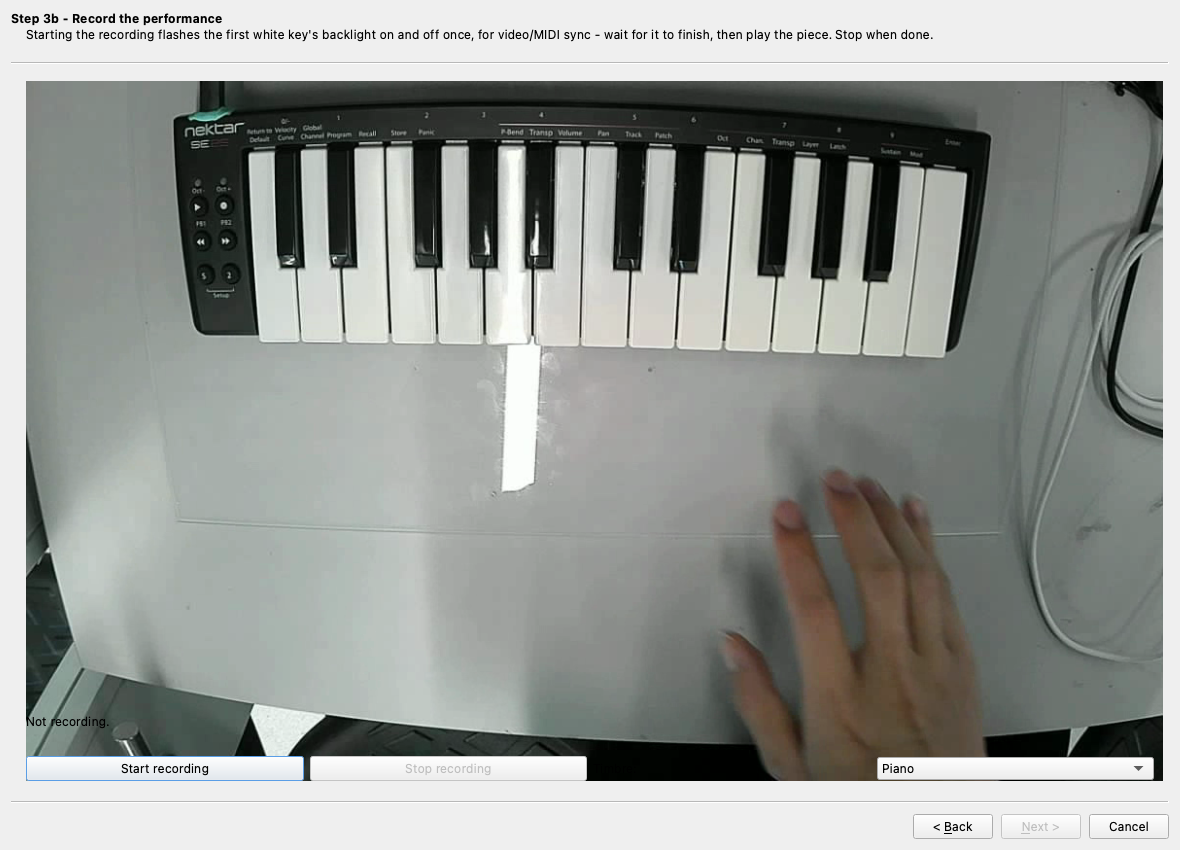
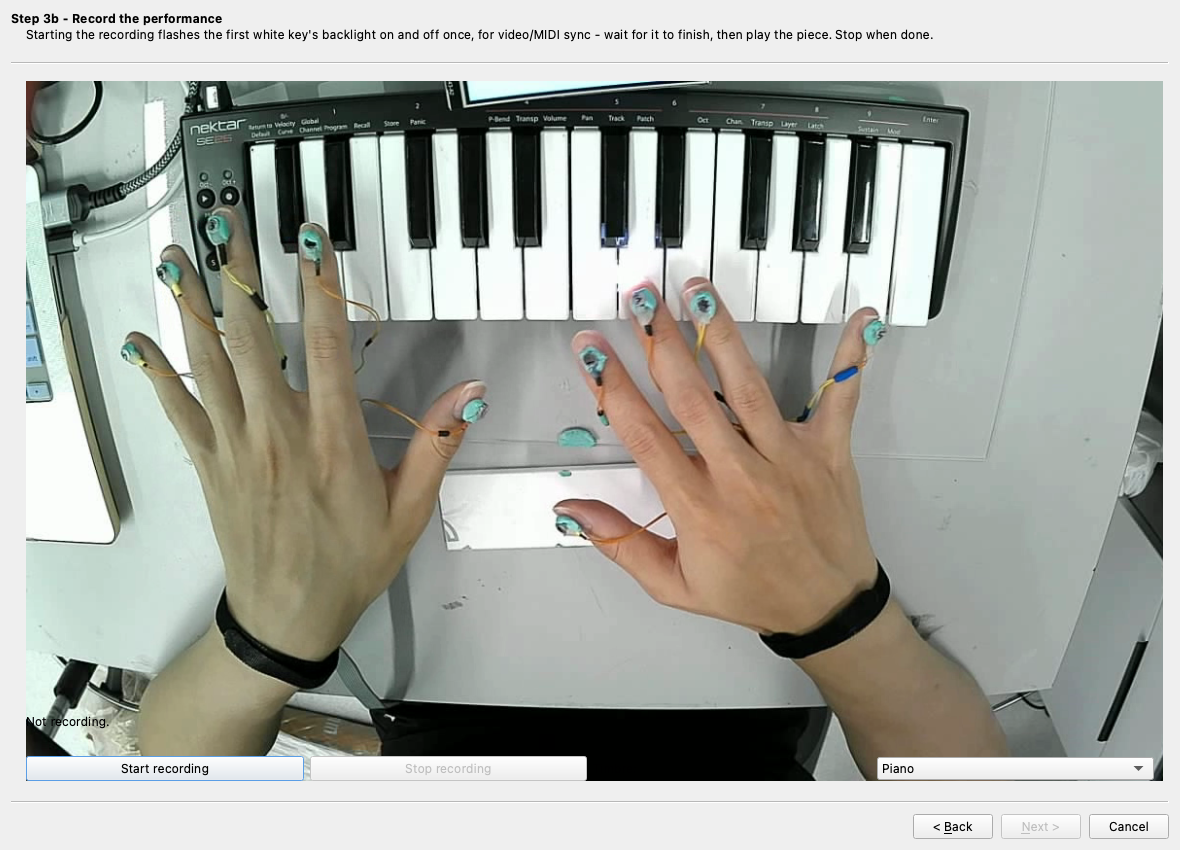
Shoot the manual against a recording the active profile actually fits
The stand-in camera was the demo teacher recording, which was made at a
different camera position from the one white-city-lab-20260717 was calibrated
against. Every window that draws the profile over the image therefore
photographed with the key masks offset from the keys - Region Preview, Live
Finger Detection and the MIDI Mapping Wizard worst of all, where a reader
would reasonably conclude the calibration was broken.

A study trial cannot have that problem: it was recorded in the session its
profile belongs to. DEMO_CLIP is now data/quiz/P18-T25-Cy/raw/performance.mp4,
and the capture seeks in past the empty keyboard at the start so hands are in
frame. The masks now sit on their keys, and the frames show the rig as it is
actually worn - nail actuators and their wiring - with both hands detected,
which the old clip never showed.

The pairing is the point, not this particular file, so both the script's
docstring and the constant say why a replacement has to satisfy it.

diff --git a/main/test-script/capture_manual_screenshots.py b/main/test-script/capture_manual_screenshots.py
@@ -15,9 +15,13 @@ clip, and every window is built there. On top of that, `_install_stubs()`
 replaces the camera, the serial ports, the MIDI enumeration and the audio
 output with fakes, so even inside the sandbox nothing can claim a device.
 
-The stand-in camera is `data/music/demoteacher-recording/raw/performance.mp4`
-- a real top-down frame of the rig, which is what makes the previews in the
-manual look like the tool in use rather than a black rectangle.
+The stand-in camera is a recorded study trial (see DEMO_CLIP) rather than a
+synthetic frame, so the previews look like the tool in use. It must be a
+recording made through the camera position the ACTIVE PROFILE was calibrated
+against: every window that draws the profile over the image - Region Preview,
+Live Finger Detection, the MIDI Mapping Wizard - photographs visibly
+misaligned otherwise, which is exactly what a reader would read as a broken
+calibration.
 
 USAGE
 -----
@@ -49,7 +53,15 @@ from pathlib import Path
 MAIN = Path(__file__).resolve().parent.parent
 REPO = MAIN.parent
 DEFAULT_OUT = REPO / "doc" / "image"
-DEMO_CLIP = "data/music/demoteacher-recording/raw/performance.mp4"
+# The stand-in camera must be a recording made through the SAME camera
+# position the active profile was calibrated against, or every window that
+# draws the profile over the image photographs visibly misaligned. A
+# participant recording satisfies that by construction: it was recorded in the
+# session the profile belongs to.
+DEMO_CLIP = "data/quiz/P18-T25-C\u03b3/raw/performance.mp4"
+# Seek in before grabbing - the opening seconds of a trial are an empty
+# keyboard, and a manual wants hands in frame.
+DEMO_START_FRAME = 700
 
 # The offscreen platform reports a ~750x800 screen. Several windows size
 # themselves to the screen they are on - the launcher most of all, which picks
@@ -251,9 +263,15 @@ def _install_stubs(sandbox: Path) -> None:
         clip = str(sandbox / "demo_camera.mp4")
 
         def capture(src=None, *a, **k):
+            seek = isinstance(src, int) or str(src).endswith("demo_camera.mp4")
             if isinstance(src, int):
                 src = clip if src in (0, 1) else "/nonexistent-camera"
-            return real_capture() if src is None else real_capture(src, *a, **k)
+            if src is None:
+                return real_capture()
+            cap = real_capture(src, *a, **k)
+            if seek and cap.isOpened():
+                cap.set(cv2.CAP_PROP_POS_FRAMES, DEMO_START_FRAME)
+            return cap
 
         cv2.VideoCapture = capture
     except Exception:

diff --git a/doc/USER_MANUAL.md b/doc/USER_MANUAL.md
@@ -14,10 +14,13 @@ section below.
 
 > **About the screenshots.** Every image was captured from the real windows,
 > rendered offscreen against a copy of the project so no live data was
-> touched. The camera in each preview is a recorded clip
-> (`main/data/music/demoteacher-recording/`) standing in for a live feed, and the
-> serial/MIDI ports shown are placeholders — on your machine those pickers
-> list your own hardware.
+> touched. The camera in each preview is a frame from a recorded study trial
+> (`main/data/quiz/P18-T25-Cγ/`) standing in for a live feed. It has to be a
+> recording made through the camera position the active profile was
+> calibrated against — anything else and the key masks would photograph
+> visibly offset from the keys they belong to. The serial and MIDI ports
+> shown are placeholders; on your machine those pickers list your own
+> hardware.
 
 ---
 
